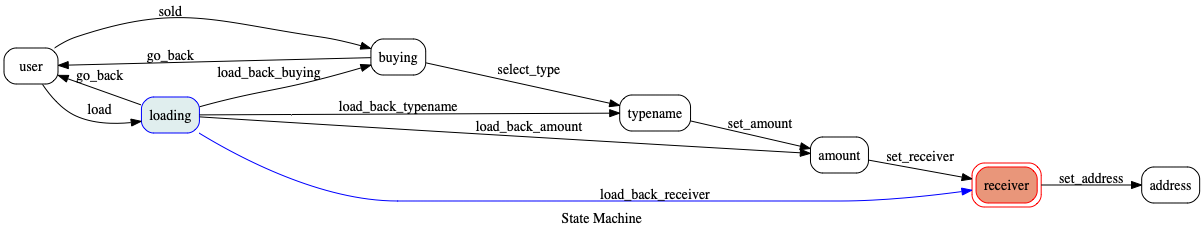
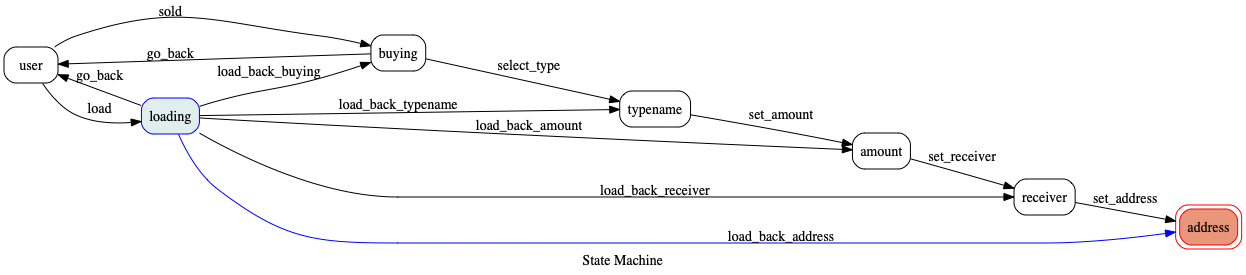
finish sending confirm box

diff --git a/soldRice/chatbot/views.py b/soldRice/chatbot/views.py
@@ -1,17 +1,19 @@
 import os
 import yaml
 import json
-from . import fsm
+from . import fsm, utils
 from django.shortcuts import render
 from django.http import HttpResponse
 from django.views.decorators.csrf import csrf_exempt
 from linebot import LineBotApi, WebhookParser, WebhookHandler
 from linebot.exceptions import InvalidSignatureError
-from linebot.models import MessageEvent, TextMessage, TextSendMessage
+from linebot.models import MessageEvent, TextMessage, TextSendMessage, TemplateSendMessage, ConfirmTemplate, PostbackAction, MessageAction
 from django.conf import settings
 
 line_bot_api = LineBotApi(settings.ACCESS_TOKEN)
 handler = WebhookHandler(settings.CHANNEL_SECRET)
+parser = WebhookParser(settings.CHANNEL_SECRET)
+
 
 
 print("os.path.dirname = ",os.path.dirname(__file__))
@@ -32,20 +34,26 @@ def callback(request):
     body = request.body.decode('utf-8')
     json_body = json.loads(body)
     print(json.dumps(json_body,indent=4))
+   
     try:
-        handler.handle(body,signature)
+        events = parser.parse(body, signature)
     except InvalidSignatureError:
         print("Signature : ", signature,end='\n\n')
         print("access token : ",settings.ACCESS_TOKEN,end='\n\n')
         print("channel_secret", settings.CHANNEL_SECRET,end='\n\n')
         print("Invalid signature, Please check your access token/channel secret.")
-    return HttpResponse("Ok")
 
-@handler.add(MessageEvent, message=TextMessage)
-def handle_message(event):
-    line_bot_api.reply_message(
-            event.reply_token,
-            TextSendMessage(text="學屁學喔"))
+    for event in events:
+        if not isinstance(event, MessageEvent):
+            continue
+        if not isinstance(event.message, TextMessage):
+            continue
+        if not isinstance(event.message.text, str):
+            continue
+    
+        utils.send_confirm_message(event.reply_token,"Are you Ok" )
+
+    return HttpResponse("Ok")
 
 
 # Create your views here.

diff --git a/soldRice/chatbot/utils.py b/soldRice/chatbot/utils.py
@@ -1,0 +1,45 @@
+import os
+import yaml
+from linebot import LineBotApi
+from linebot.models import MessageEvent, TextMessage, TextSendMessage, TemplateSendMessage, ConfirmTemplate, PostbackAction, MessageAction
+
+# print(os.path.dirname(__file__))
+
+config_path = os.path.join(os.path.dirname(__file__),'config.yaml')
+# print(config_path)
+
+with open(config_path, 'r') as f:
+    data = yaml.load(f)
+    CHANNEL_SECRET = data['CHANNEL_SECRET']
+    ACCESS_TOKEN = data['ACCESS_TOKEN']
+    f.close()
+
+
+def send_text_message(reply_token, text):
+    line_bot_api = LineBotApi()
+    line_bot_api.reply_message(reply_token, TextSendMessage(text=text))
+
+    return "ok"
+
+def send_confirm_message(reply_token, text):
+    line_bot_api = LineBotApi(ACCESS_TOKEN)
+    line_bot_api.reply_message(
+            reply_token,TemplateSendMessage(
+                alt_text='Confirm template',
+                template=ConfirmTemplate(
+                    text=text,
+                    actions=[
+                        {
+                            "type":"message",
+                            "label":"yes",
+                            "text":"yes"
+                        },
+                        {
+                            "type":"message",
+                            "label":"no",
+                            "text":"no"
+                        }
+                    ])
+                ))
+ 
+    return "ok" 

diff --git a/soldRice/chatbot/fsm.py b/soldRice/chatbot/fsm.py
@@ -62,6 +62,11 @@ transitions_functions = [
             "dest" : "receiver"
         },
         {
+            "trigger" :  "load_back_address",
+            "source" : "loading",
+            "dest" : "address"
+        },
+        {
             "trigger" : "go_back",
             "source": ["buying","loading"],
             "dest":"user"
@@ -93,6 +98,8 @@ class Machine(GraphMachine):
             self.load_back_amount(1)
         elif state[1] == "receiver":
             self.load_back_receiver(1)
+        elif state[1] == "address":
+            self.load_back_address(1) 
         else:
             self.go_back()
 
@@ -145,8 +152,7 @@ if __name__ == '__main__':
     # machine.set_amount(5)
     # machine.set_receiver("糙米")
     # machine.set_address("wwwww")
-    machine.load(["load","receiver"])
-    
+    response = machine.load(["load","address"])
     machine.get_graph().draw("graph.png",prog="dot",format="png")
     
 

diff --git a/soldRice/soldRice/settings.py b/soldRice/soldRice/settings.py
@@ -118,7 +118,6 @@ USE_TZ = True
 # https://docs.djangoproject.com/en/2.2/howto/static-files/
 
 STATIC_URL = '/static/'
-
-CHANNEL_SECRET= '965c68cfd1f3da8a8ae7b1d79252c3b5'
+CHANNEL_SECRET = '2a7e568258afde1da868212dbca5c9ac'
[1 lines of base64/hex data omitted]
 
